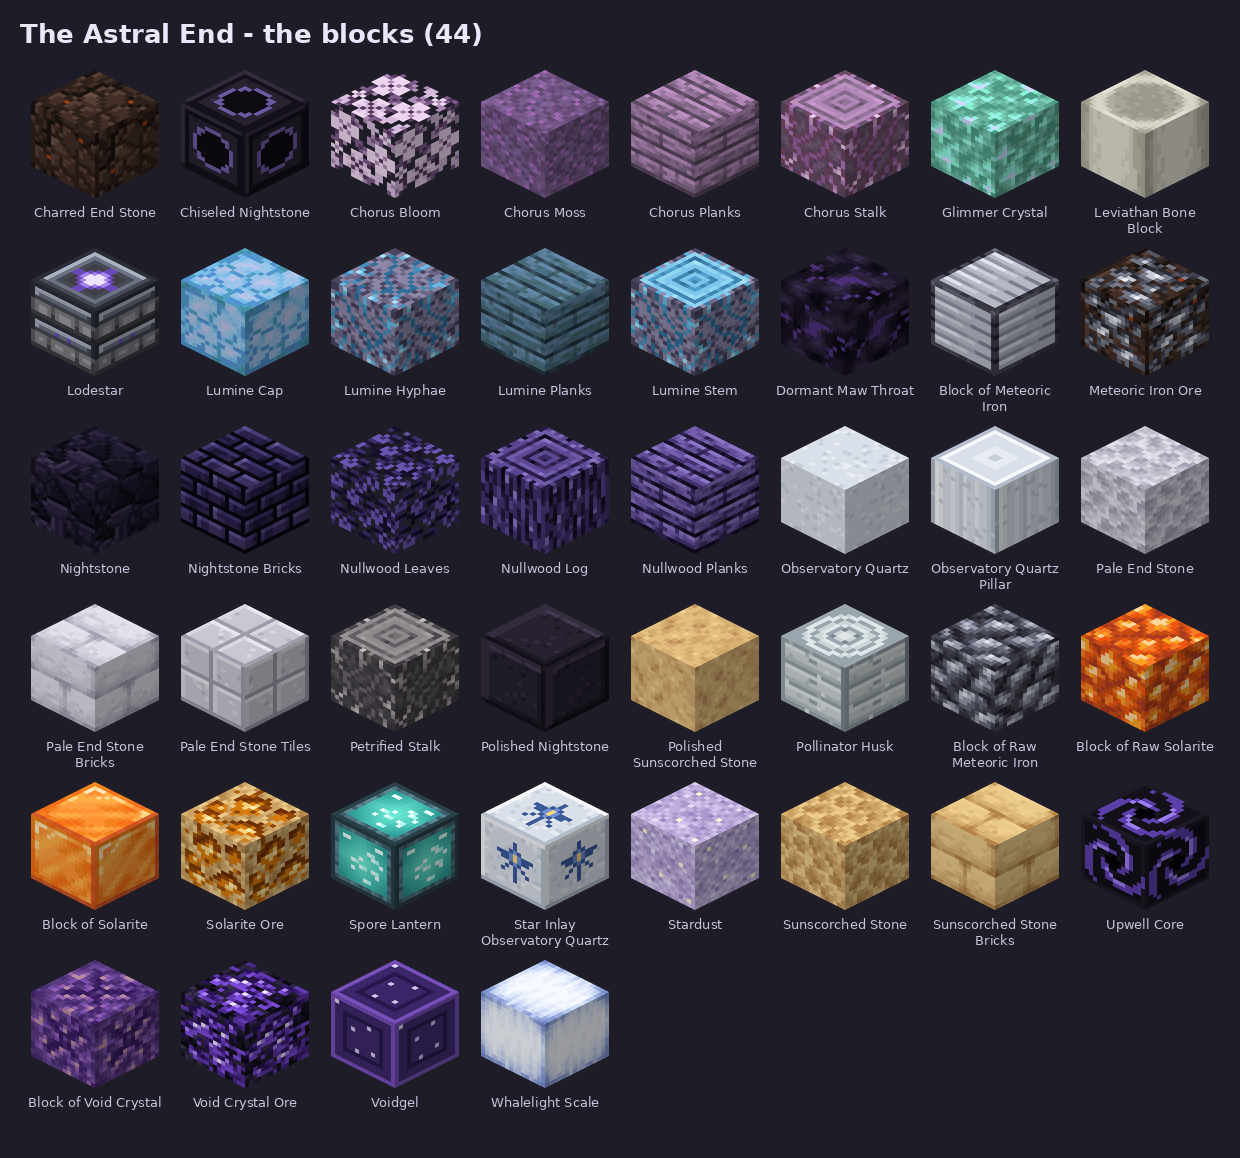
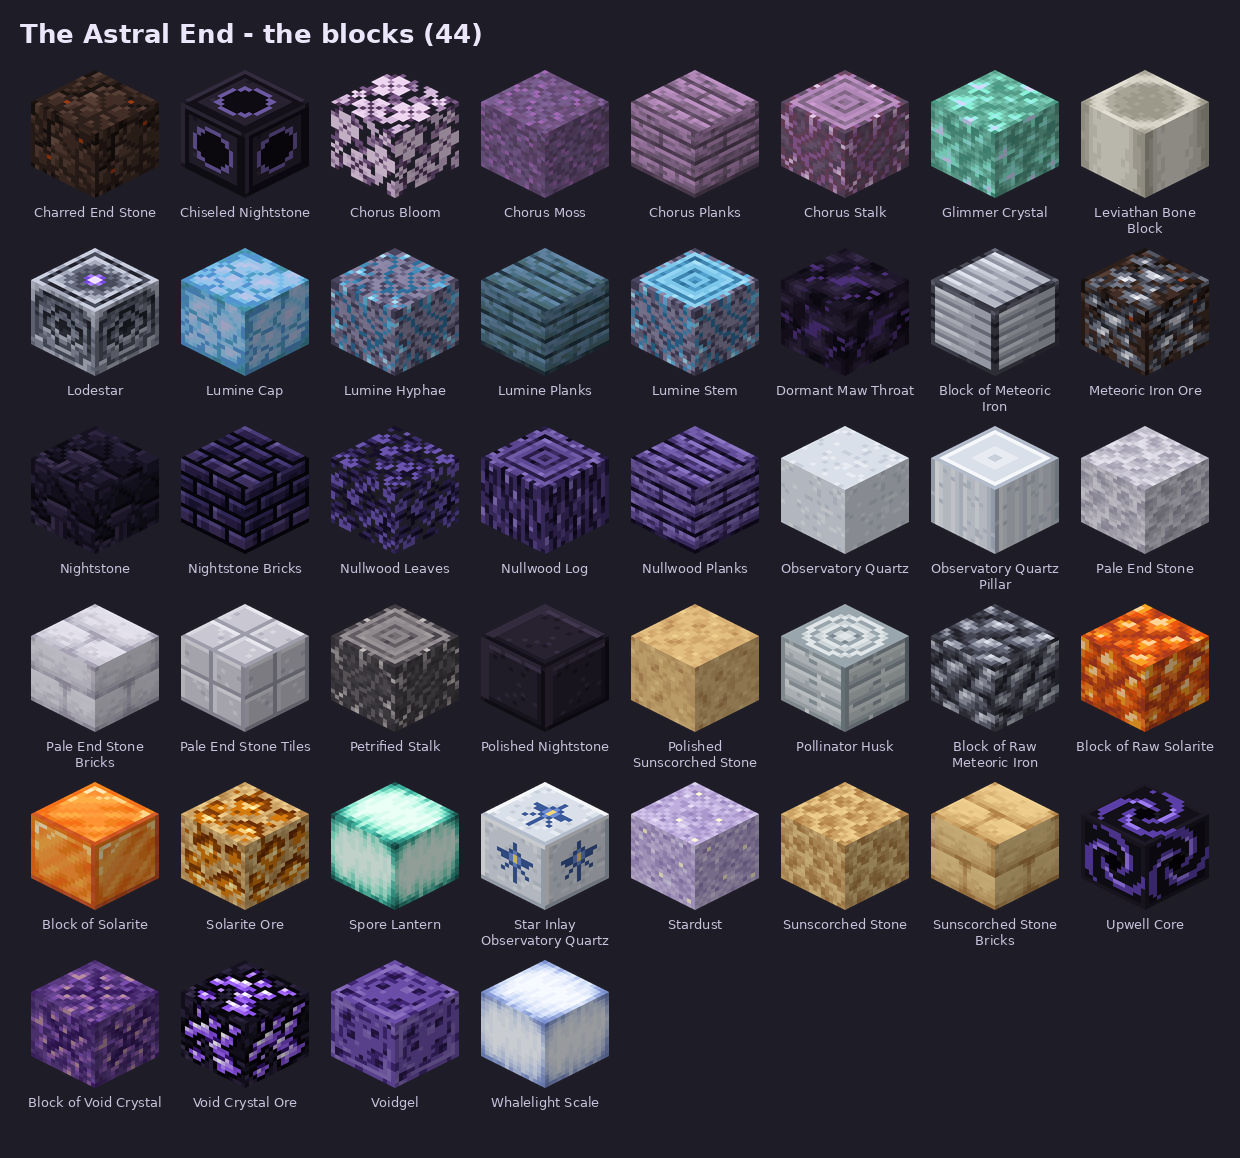
Spore Lantern, Voidgel, Lodestar and Void Crystal Ore from vanilla; clear whale eyes
- Spore Lantern: a verdant froglight's glowing grain in spore teal.
- Voidgel: a slime block of the void, deep violet and see-through.
- Lodestar: the lodestone in meteoric steel with a violet star on top.
- Void Crystal Ore: deepslate diamond ore's clusters in vivid violet to
  white, each sunk in a dark rim, so it reads as precious.
- Drift Whale: the bloom keeps off its eyes and no points of light land
  round them; the preview adds glow on top as the game does.
- Modrinth gallery: the sleeping Wyrm, the creatures and the blocks.

Claude-Session: https://claude.ai/code/session_0155WfD2TeFRTvCBedvK2Yiv

Changed region(s): [[0.1226, 0.6528, 0.3677, 0.9326], [0.0, 0.2176, 0.1532, 0.342]]

diff --git a/tools/mobs/make_mobs.py b/tools/mobs/make_mobs.py
@@ -69,8 +69,9 @@ class Part:
 
 
 class Mob:
-    def __init__(self, name, size, parts, egg, halo=None):
+    def __init__(self, name, size, parts, egg, halo=None, clear=()):
         self.halo = halo  # a faint colour added round every glowing pixel (a soft bioluminescent bloom)
+        self.clear = {c[:3] for c in clear}  # colours (eyes) the bloom keeps off and doesn't spread from
         self.name = name
         self.size = size  # texture width, height
         self.parts = parts
@@ -234,19 +235,22 @@ def paint_mob(mob, seed):
                             glow.putpixel((x, y), g)
                             has_glow = True
     if has_glow and mob.halo:
-        add_halo(img, glow, mob.halo)
+        add_halo(img, glow, mob.halo, mob.clear)
     return img, (glow if has_glow else None)
 
 
-def add_halo(img, glow, colour):
+def add_halo(img, glow, colour, clear=frozenset()):
     """The glow layer is drawn additively (like a spider's eyes), so a dim colour round each light
     reads as a soft bloom of light on the skin around it."""
     g = glow.load()
     lit = {(x, y) for y in range(glow.height) for x in range(glow.width) if g[x, y][3]}
     for (x, y) in lit:
+        if g[x, y][:3] in clear:
+            continue
         for dx, dy in ((1, 0), (-1, 0), (0, 1), (0, -1)):
             q = (x + dx, y + dy)
-            if q not in lit and 0 <= q[0] < glow.width and 0 <= q[1] < glow.height and img.getpixel(q)[3]:
+            if (q not in lit and 0 <= q[0] < glow.width and 0 <= q[1] < glow.height and img.getpixel(q)[3]
+                    and img.getpixel(q)[:3] not in clear):
                 g[q] = colour
 
 
@@ -854,8 +858,11 @@ def whale_head(face, px, py, fw, fh, rnd):
 def whale_head_glow(face, px, py, fw, fh, rnd):
     eye_x = 2 if face == "east" else fw - 3
     if face in ("east", "west") and py == 6 and px == eye_x:
-        return hexc("a8e8ff")
-    return whale_glow(face, px, py, fw, fh, rnd)
+        return hexc("bfe0ff")                              # the eye's catchlight
+    lights = whale_glow(face, px, py, fw, fh, rnd)
+    if face in ("east", "west") and abs(px - eye_x) <= 2 and 4 <= py <= 9:
+        return None                                        # no lights round the eye: it stays clear
+    return lights
 
 
 def whale_jaw(face, px, py, fw, fh, rnd):
@@ -902,7 +909,8 @@ WHALE = Mob("drift_whale", (128, 64), [
             ]),
         ]),
     ]),
-], egg=(hexc("3a4fa8"), hexc("dbe6ff")), halo=hexc("1a3866"))
+], egg=(hexc("3a4fa8"), hexc("dbe6ff")), halo=hexc("1a3866"),
+             clear=(hexc("bfe0ff"), hexc("141c3c"), hexc("27346a")))   # the eyes stay clear
 
 
 # ---- The Watcher: a floating construct of pale observatory stone, built like the Breeze or the

diff --git a/tools/textures/retexture.py b/tools/textures/retexture.py
@@ -258,7 +258,22 @@ def solarite_ore():
 
 
 def void_crystal_ore():
-    return ore(nightstone(), "diamond_ore", "2a1258", "8a54f0", "f0e2ff")
+    """Precious, and it should look it: deepslate diamond ore's clusters, in a vivid violet running to
+    white, each sunk in a dark rim cut into the Nightstone so it stands out from the rock."""
+    host = nightstone()
+    src, stone = vanilla("deepslate_diamond_ore"), vanilla("deepslate")
+    lit = {(x, y) for y in range(16) for x in range(16) if src.getpixel((x, y)) != stone.getpixel((x, y))}
+    hp = host.load()
+    for (x, y) in lit:
+        for dx, dy in ((1, 0), (-1, 0), (0, 1), (0, -1)):
+            q = ((x + dx) % 16, (y + dy) % 16)
+            if q not in lit:
+                hp[q] = hexc("07040c")
+    clusters = Image.new("RGBA", (16, 16), (0, 0, 0, 0))
+    for (x, y) in lit:
+        clusters.putpixel((x, y), src.getpixel((x, y)))
+    host.alpha_composite(gradient(clusters, "3a1478", "9a5cff", "d8b8ff", "ffffff"))
+    return host
 
 
 METEORIC = ("24232c", "6c6f80", "dfe2ec")
@@ -290,6 +305,31 @@ def petrified_stalk_side():
 
 def petrified_stalk_top():
     return gradient(chorus_stalk_top(), "3e3a40", "8a8488", "c2bcbc")
+
+
+def spore_lantern():
+    """A froglight's soft glowing grain, in the teal of the spores it's made from."""
+    return gradient(vanilla("verdant_froglight_side"), "1d5e58", "3fb8a4", "9ff2d8", "eafff6")
+
+
+def voidgel():
+    """A slime block of the void: the same see-through jelly, deep violet, its little core darker."""
+    return gradient(vanilla("slime_block"), "2b1356", "6b3fc4", "b894ff")
+
+
+def lodestar_side():
+    return gradient(vanilla("lodestone_side"), "23242e", "5d6274", "c9cede")
+
+
+def lodestar_top():
+    """The lodestone's top in meteoric steel, a violet star in the middle where the iron points."""
+    img = gradient(vanilla("lodestone_top"), "23242e", "5d6274", "c9cede")
+    star = {(7, 7): "f0e2ff", (8, 7): "f0e2ff", (7, 8): "f0e2ff", (8, 8): "f0e2ff",
+            (6, 7): "a77bff", (9, 8): "a77bff", (7, 6): "a77bff", (8, 9): "a77bff",
+            (6, 8): "7a4ae0", (9, 7): "7a4ae0", (8, 6): "7a4ae0", (7, 9): "7a4ae0"}
+    for (x, y), c in star.items():
+        img.putpixel((x, y), hexc(c))
+    return img
 
 
 # ---- drawn, kept from the first pass
@@ -365,4 +405,8 @@ TEXTURES = [
     ("block/whalelight_scale.png", whalelight_scale),
     ("block/petrified_stalk_side.png", petrified_stalk_side),
     ("block/petrified_stalk_top.png", petrified_stalk_top),
+    ("block/spore_lantern.png", spore_lantern),
+    ("block/voidgel.png", voidgel),
+    ("block/lodestar_side.png", lodestar_side),
+    ("block/lodestar_top.png", lodestar_top),
 ]

diff --git a/tools/refresh_doc_images.py b/tools/refresh_doc_images.py
@@ -19,12 +19,15 @@ SIZE = (854, 480)
 PICTURES = {
     **{f"screens/{b}": b for b in ("nebula_fields", "ashen_barrens", "comet_wake", "corona", "hollow_isles")},
     "screens/shattered_observatory": "structure_shattered_observatory",
-    **{f"mobs/{m}": f"mob_{m}" for m in ("cinder_mite", "drift_whale", "hollow", "pollinator", "umbral_stalker",
-                                          "umbral_stalker_lit", "void_ray", "void_wanderer", "watcher")},
+    **{f"mobs/{m}": f"mob_{m}" for m in ("cinder_mite", "hollow", "pollinator", "umbral_stalker_lit", "void_ray",
+                                          "void_wanderer", "watcher")},
+    "mobs/drift_whale": "mob_drift_whale_side",
+    "mobs/umbral_stalker": "mob_umbral_stalker_angled",
     "phase10/chorus_thicket": "chorus_thicket",
     "phase10/glimmering_crags": "glimmering_crags",
     "phase10/resonant_spire": "structure_resonant_spire",
     "phase10/whalefall": "structure_whalefall",
+    "phase10/wyrm_nest": "wyrm_nest",
 }
 
 

diff --git a/tools/mobs/preview_mobs.py b/tools/mobs/preview_mobs.py
@@ -122,10 +122,10 @@ def render(mob, texture, yaw, pitch, size=260, glow=None, scale=None):
                     c = tex[ix, iy]
                     if c[3] < 20:
                         continue
+                    c = tuple(int(c[i] * shade) for i in range(3)) + (c[3],)
                     if gl and gl[ix, iy][3] > 20:
-                        c = gl[ix, iy][:3] + (255,)       # glowing parts, at full brightness
-                    else:
-                        c = tuple(int(c[i] * shade) for i in range(3)) + (c[3],)
+                        # the glow layer is added on top, at full brightness (as the game's eyes layer does)
+                        c = tuple(min(255, c[i] + gl[ix, iy][i]) for i in range(3)) + (255,)
                     depth[yy][xx] = z
                     base = px[xx, yy]
                     a = c[3] / 255

diff --git a/docs/modrinth/description.md b/docs/modrinth/description.md
@@ -48,6 +48,8 @@ or knock chunks off its head. A **Lodestar** keeps them from landing near your b
 - **Umbral Stalker:** a shadow that always knows where you are, and snuffs out your lights. It fears fire.
 - **Void Wanderer**, **End Pollinator**, **Void Ray**, **Cinder Mite**, **The Hollow**, and the **Watcher**.
 
+{{The creatures}}
+
 {{Drift Whale}}
 
 ## Places to find
